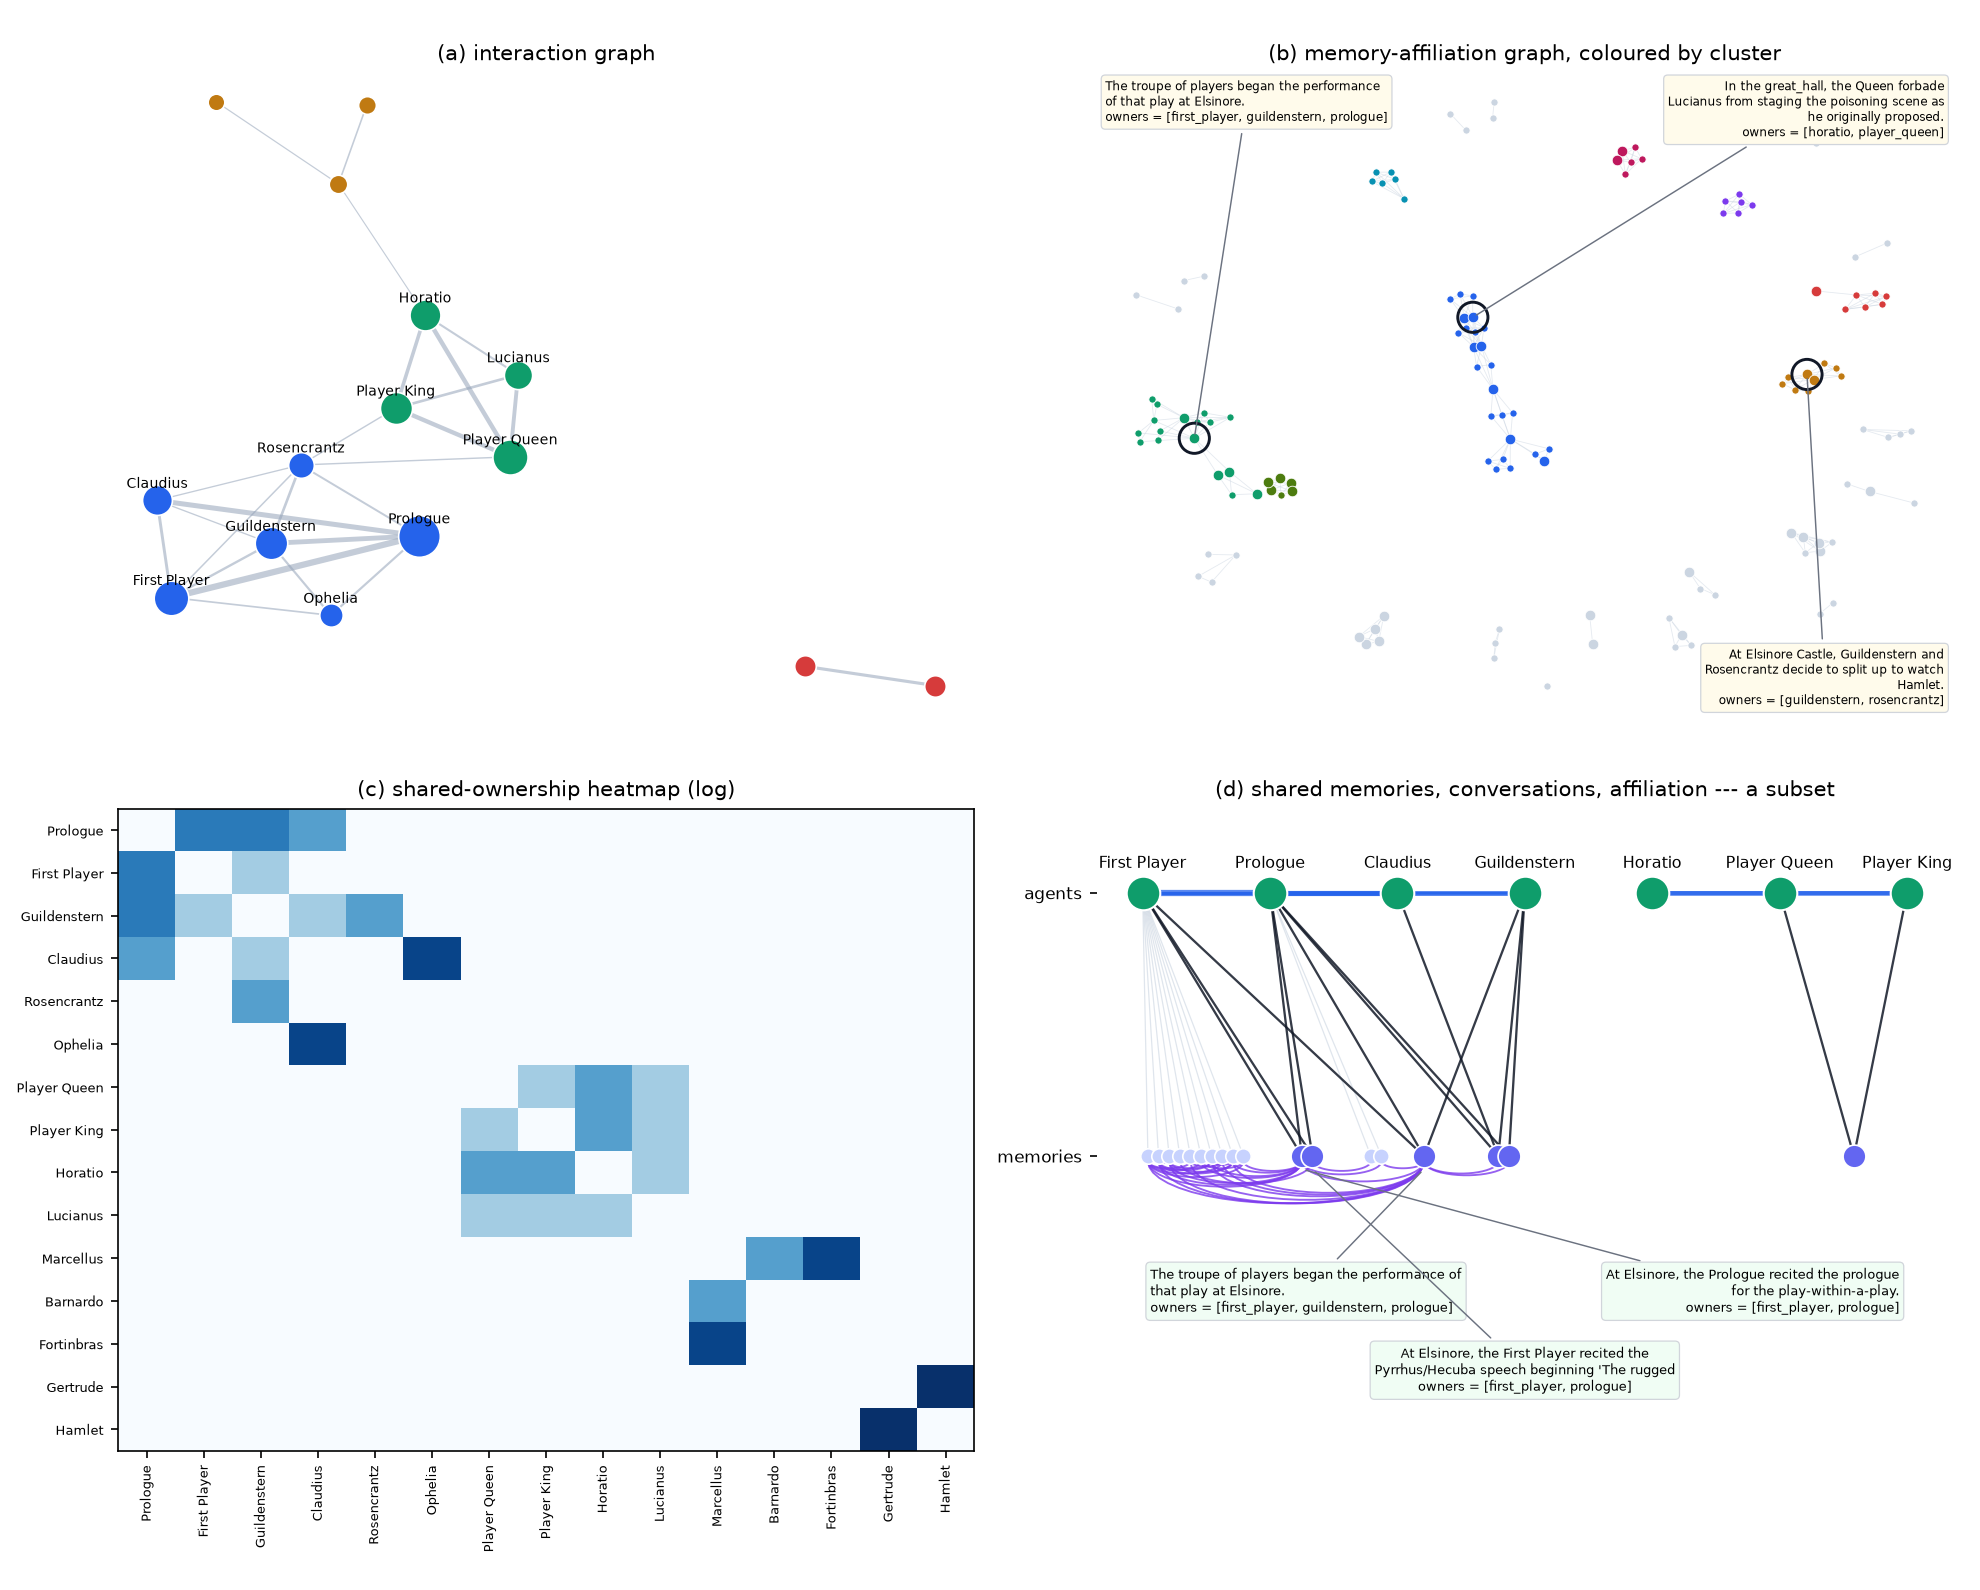
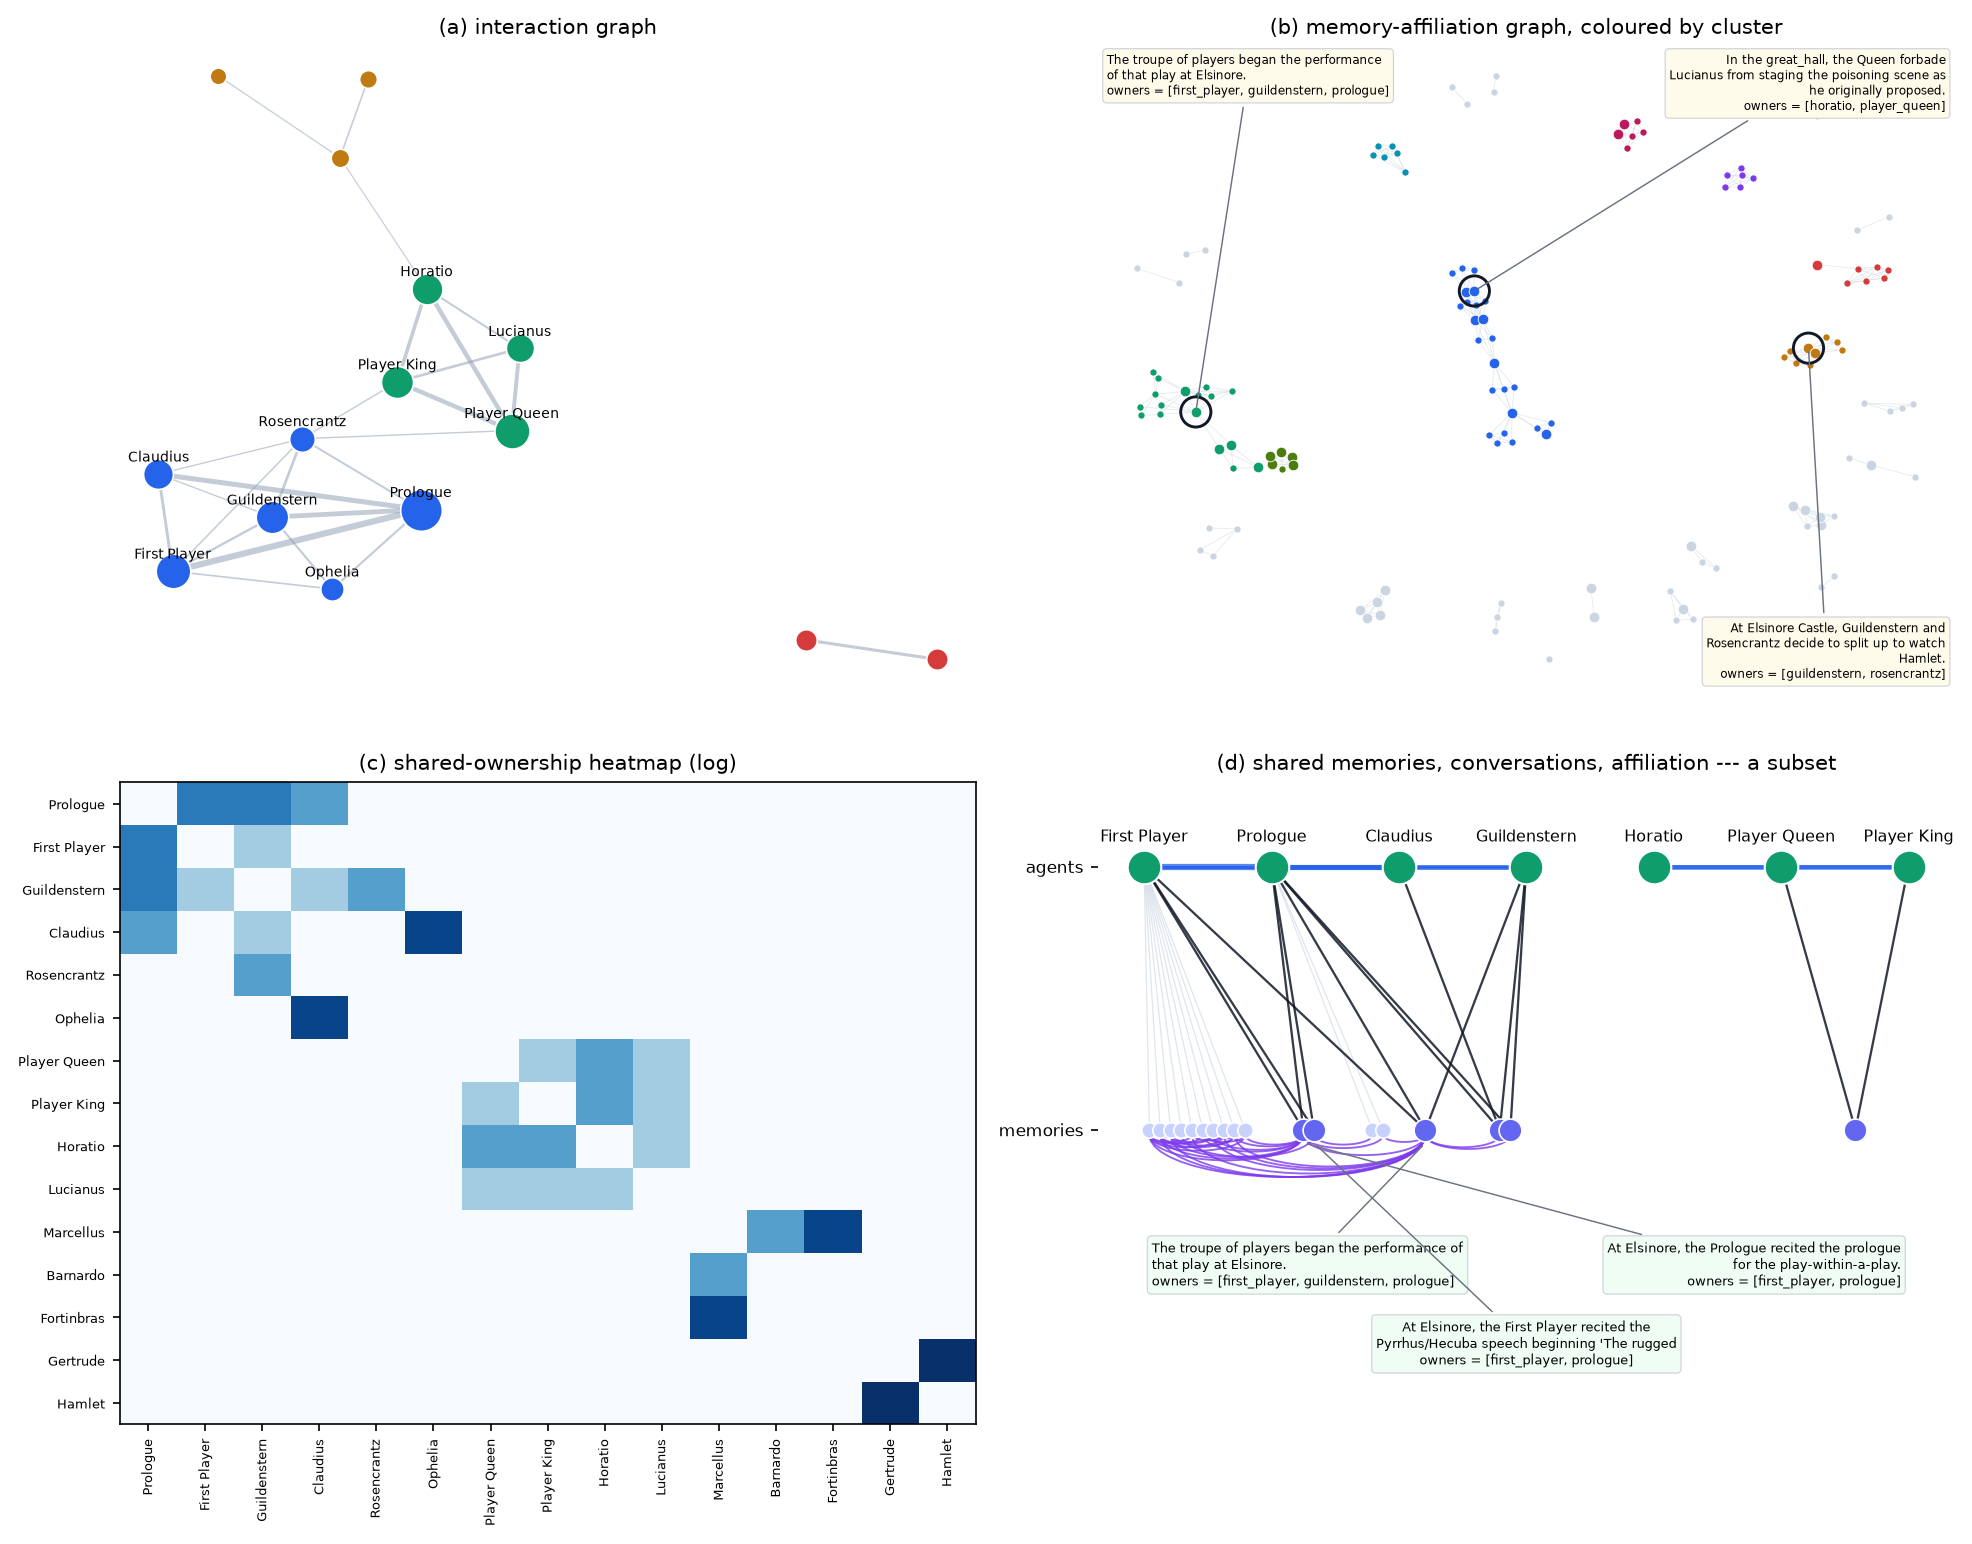
paper: case-study figures enlarged
The four 2x2 case figures now export with a tight bounding box, which
trims the margin matplotlib leaves around the canvas, and the main-text
Three Kingdoms figure goes from 0.88 to 0.95 of the text width; the
appendix three were already full width and gain the crop. Full width for
the main figure was tried first and pushed the conclusion onto page ten
-- 0.95 keeps it inside the nine-page limit, with only the reproducibility
statement (uncounted) crossing over.

diff --git a/paper/main.tex b/paper/main.tex
@@ -403,7 +403,7 @@ separates nothing.
 \subsection{The memory graph tracks the social graph}
 \begin{figure}[t]
 \centering
-\includegraphics[width=0.88\textwidth]{figures/case_three_kingdoms.png}
+\includegraphics[width=0.95\textwidth]{case_three_kingdoms.png}
 \caption{The three layers of one run --- Three Kingdoms, 80 rounds.
 (a)~Interaction graph: each node an agent, sized by degree, coloured by
 conversational community; the court around the emperor, the Liu Bei camp and
@@ -820,21 +820,21 @@ of the same data at the same layout for the worlds not shown in
 
 \begin{figure}[h]
 \centering
-\includegraphics[width=\textwidth]{figures/case_red_chamber.png}
+\includegraphics[width=\textwidth]{case_red_chamber.png}
 \caption{Red Chamber, read as Figure~\ref{fig:case}.}
 \label{fig:case_rc}
 \end{figure}
 
 \begin{figure}[h]
 \centering
-\includegraphics[width=\textwidth]{figures/case_russia_ukraine.png}
+\includegraphics[width=\textwidth]{case_russia_ukraine.png}
 \caption{Russia--Ukraine, same panels.}
 \label{fig:case_ru}
 \end{figure}
 
 \begin{figure}[h]
 \centering
-\includegraphics[width=\textwidth]{figures/case_hamlet.png}
+\includegraphics[width=\textwidth]{case_hamlet.png}
 \caption{Hamlet, same panels.}
 \label{fig:case_hl}
 \end{figure}

diff --git a/experiments/case_study_static.py b/experiments/case_study_static.py
@@ -215,7 +215,7 @@ def draw(world, case):
 
     plt.tight_layout()
     out = f"paper/figures/case_{world}.png"
-    plt.savefig(out, dpi=150); plt.close()
+    plt.savefig(out, dpi=150, bbox_inches='tight', pad_inches=0.12); plt.close()
     print("wrote", out)
 
 
